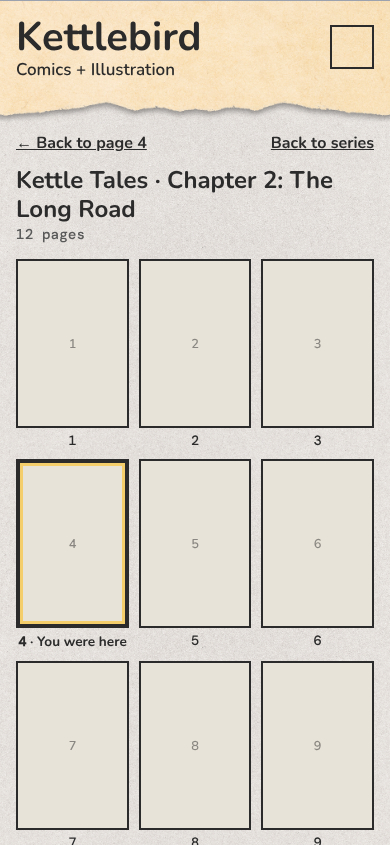
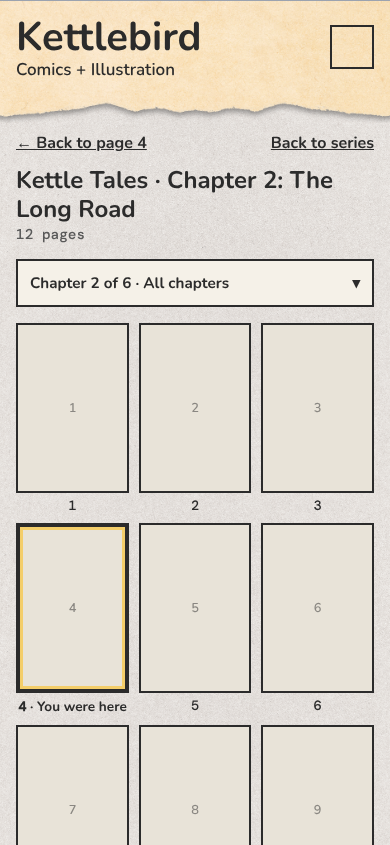
Reader design: move between chapters from the contact sheet
At the lead's request: a fold-out chapter list under the sheet's heading
(folded by default, so it costs one line on a phone) and links to the
chapters either side under the pictures. Each chapter also has a plain sheet
at <chapter>/pages that the chapter links open. Mock-up 9 added; the contact
sheet story is amended to match.

Claude-Session: https://claude.ai/code/session_01HWRLNSVAoX5Ni8d8XcwJh1

diff --git a/docs/design/mockups/comic-sheet-and-controls/mockups.html b/docs/design/mockups/comic-sheet-and-controls/mockups.html
@@ -77,6 +77,19 @@
   .thumb.here .num::after { content: ' · You were here'; font-family: 'Nunito', sans-serif; }
   .sheet-foot { margin-top: 1.25rem; display: flex; justify-content: space-between; font: 700 1rem 'Nunito', sans-serif; }
   .sheet-foot a { color: var(--ink); }
+
+  /* Chapter navigation on the sheet: previous and next chapter, and a fold-out list of chapters */
+  .chapnav { display: flex; justify-content: space-between; gap: 1rem; margin: 0 0 .75rem; font: 700 .95rem 'Nunito', sans-serif; }
+  .chapnav a { color: var(--ink); }
+  details.chapters { margin: 0 0 1rem; border: 2px solid var(--ink); background: var(--beige); }
+  details.chapters summary { cursor: pointer; padding: .5rem .75rem; font: 700 .95rem 'Nunito', sans-serif; list-style: none; display: flex; justify-content: space-between; min-height: 44px; align-items: center; }
+  details.chapters summary::after { content: '▾'; }
+  details.chapters[open] summary::after { content: '▴'; }
+  details.chapters ol { margin: 0; padding: 0 .75rem .5rem; list-style: none; border-top: 1px solid #2b2b2b33; }
+  details.chapters li { padding: .45rem 0; border-bottom: 1px solid #2b2b2b22; font: 600 .95rem 'Nunito', sans-serif; display: flex; justify-content: space-between; }
+  details.chapters li a { color: var(--ink); }
+  details.chapters li small { color: var(--ink-light); font: 500 .8rem 'DM Mono', monospace; white-space: nowrap; margin-left: .5rem; }
+  details.chapters li.here { font-weight: 800; }
 </style>
 </head>
 <body>
@@ -140,13 +153,15 @@
   </div>
 </div></div>
 
-<div class="wrap"><h6>5 · Contact sheet on a phone, opened from page 4: three a row, page 4 marked</h6>
+<div class="wrap"><h6>5 · Contact sheet on a phone, opened from page 4: three a row, page 4 marked; the chapter list folded</h6>
 <div class="screen phone" id="m5">
   <div class="sheet">
     <div class="bar"><a href="#">← Back to page 4</a><a href="#">Back to series</a></div>
     <h1>Kettle Tales · Chapter 2: The Long Road</h1>
     <p class="count">12 pages</p>
+    <details class="chapters"><summary>Chapter 2 of 6 · All chapters</summary><ol><li><a href="#">Chapter 1: The Kettle</a><small>3 pages</small></li><li class="here"><span>Chapter 2: The Long Road · you're here</span><small>12 pages</small></li><li><a href="#">Chapter 3: Over the Hill</a><small>9 pages</small></li><li><a href="#">Chapter 4: Homeward</a><small>6 pages</small></li><li><a href="#">Chapter 5: The Fair</a><small>14 pages</small></li><li><a href="#">Chapter 6: Rain</a><small>8 pages</small></li></ol></details>
     <ul class="thumbs" id="t5"></ul>
+    <div class="chapnav"><a href="#">← Chapter 1</a><a href="#">Chapter 3 →</a></div>
     <div class="sheet-foot"><a href="#">← Back to page 4</a><a href="#">Back to series</a></div>
   </div>
 </div></div>
@@ -157,7 +172,9 @@
     <div class="bar"><a href="#">← Back to page 4</a><a href="#">Back to series</a></div>
     <h1>Kettle Tales · Chapter 2: The Long Road</h1>
     <p class="count">12 pages</p>
+    <details class="chapters"><summary>Chapter 2 of 6 · All chapters</summary><ol><li><a href="#">Chapter 1: The Kettle</a><small>3 pages</small></li><li class="here"><span>Chapter 2: The Long Road · you're here</span><small>12 pages</small></li><li><a href="#">Chapter 3: Over the Hill</a><small>9 pages</small></li><li><a href="#">Chapter 4: Homeward</a><small>6 pages</small></li><li><a href="#">Chapter 5: The Fair</a><small>14 pages</small></li><li><a href="#">Chapter 6: Rain</a><small>8 pages</small></li></ol></details>
     <ul class="thumbs" id="t6"></ul>
+    <div class="chapnav"><a href="#">← Chapter 1</a><a href="#">Chapter 3 →</a></div>
     <div class="sheet-foot"><a href="#">← Back to page 4</a><a href="#">Back to series</a></div>
   </div>
 </div></div>
@@ -192,13 +209,25 @@
   </div>
 </div></div>
 
+
+<div class="wrap"><h6>9 · The chapter list unfolded on a phone; a chapter opens that chapter's sheet</h6>
+<div class="screen phone" id="m9">
+  <div class="sheet">
+    <div class="bar"><a href="#">← Back to page 4</a><a href="#">Back to series</a></div>
+    <h1>Kettle Tales · Chapter 2: The Long Road</h1>
+    <p class="count">12 pages</p>
+    <details class="chapters" open><summary>Chapter 2 of 6 · All chapters</summary><ol><li><a href="#">Chapter 1: The Kettle</a><small>3 pages</small></li><li class="here"><span>Chapter 2: The Long Road · you're here</span><small>12 pages</small></li><li><a href="#">Chapter 3: Over the Hill</a><small>9 pages</small></li><li><a href="#">Chapter 4: Homeward</a><small>6 pages</small></li><li><a href="#">Chapter 5: The Fair</a><small>14 pages</small></li><li><a href="#">Chapter 6: Rain</a><small>8 pages</small></li></ol></details>
+    <ul class="thumbs" id="t9"></ul>
+  </div>
+</div></div>
+
 <script>
   for (const s of document.querySelectorAll('.screen.wide, .screen.phone')) {
     if (!s.classList.contains('scrolled') && !s.id.match(/m[56]/)) continue;
   }
   // Phone and laptop sheets and readers that aren't scrolled get the site header.
-  for (const id of ['m5', 'm6']) document.getElementById(id).prepend(document.getElementById('hdr').content.cloneNode(true));
-  for (const id of ['t5', 't6']) {
+  for (const id of ['m5', 'm6', 'm9']) document.getElementById(id).prepend(document.getElementById('hdr').content.cloneNode(true));
+  for (const id of ['t5', 't6', 't9']) {
     const list = document.getElementById(id);
     for (let n = 1; n <= 12; n++) {
       const li = document.createElement('li');

diff --git a/docs/design/comic-sheet-and-controls.md b/docs/design/comic-sheet-and-controls.md
@@ -2,7 +2,7 @@
 id: design-comic-sheet-and-controls
 status: draft
 derived-from:
-  - story-comic-reader-contact-sheet: 7f9684183ed2
+  - story-comic-reader-contact-sheet: b81881d28d35
   - story-comic-reader-play-controls: 62a27f4a8594
   - design-comic-turn-pages#layout: a26d566f95d8
   - design-comic-turn-pages#states-and-errors: d45ab0902ca3
@@ -38,11 +38,13 @@ design-comic-turn-pages (see "Other documents"). -->
 1. In the reader bar, **All pages** opens the contact sheet for the chapter the fan is in (mock-ups 1 and 4).
 2. The sheet shows every page of that chapter as a small picture, in order, numbered, three a row on a phone and as many as fit on wider screens. The page the fan came from is marked "You were here", and the sheet opens scrolled to it (mock-ups 5 and 6).
 3. Choosing a picture opens that page in the reader. **← Back to page 4** (the page they came from), or the browser's back button, returns them where they were. The links are both above and under the pictures, so a long chapter never means scrolling back up.
+4. To move to another chapter (lead, 2026-11-02): under the heading, a folded line, "Chapter 2 of 6 · All chapters", unfolds the series' chapter list (mock-up 9); choosing one opens that chapter's sheet. Under the pictures, **← Chapter 1** and **Chapter 3 →** open the chapters either side. Folded, the list costs one line on a phone, so the pictures stay near the top.
 
 ## Addresses
 
 - Each reader page has its own sheet, at its address plus `/pages`: from `/comics/kettle-tales/2/4`, the sheet is `/comics/kettle-tales/2/4/pages`. Because the address says which page the fan came from, the sheet can mark it, scroll to it and link back to it without any script, and each sheet is a plain page the site builds ahead of time, like the reader's.
 - **All pages** links to the sheet with `#page-4`, so it opens scrolled to the marked picture.
+- Each chapter also has a plain sheet, at its address plus `/pages`: `/comics/kettle-tales/3/pages`. The chapter list and the chapter links open these. A chapter's own sheet marks no picture, opens at the top, and its bar has **Back to series** alone, since the fan didn't come from one of its pages.
 - A picture links to that page's reader address (`/comics/kettle-tales/2/7`). The controls link to the first and newest pages' reader addresses.
 
 ## Mock-ups
@@ -59,6 +61,7 @@ Built to match the reader as it is: its fonts, colours, borders and reader bar. 
 | 6 | Contact sheet on a laptop | `mockups/comic-sheet-and-controls/6-sheet-laptop.png` |
 | 7 | A 320 px phone with text enlarged to 200%: the row wraps to two by two | `mockups/comic-sheet-and-controls/7-text-200-narrow.png` |
 | 8 | A complete series: **Last** in place of **Newest** | `mockups/comic-sheet-and-controls/8-complete-series.png` |
+| 9 | The chapter list unfolded on a phone | `mockups/comic-sheet-and-controls/9-chapters-unfolded.png` |
 
 ## Layout
 
@@ -84,6 +87,8 @@ Built to match the reader as it is: its fonts, colours, borders and reader bar. 
 - The heading: the series and the chapter as the reader names it (so a prologue numbered 0 shows its title), "Kettle Tales · Chapter 2: The Long Road", then the number of pages, "12 pages". A series the reader shows without chapter names has the series' title alone.
 - The pictures: three a row on a phone (about 110 px wide on a 390 px phone), as many as fit on wider screens (each at least 150 px). Each picture keeps the page's shape, with a thin border, and its page number under it.
 - The marked picture has a thick border with a yellow inner line, and "4 · You were here" under it.
+- **The chapter list:** under the heading and page count, a bordered fold-out, folded by default, whose line reads "Chapter 2 of 6 · All chapters ▾" (at least 44 px tall). Unfolded, it lists every chapter that has pages, in order, each named as on the series page ("Chapter 3: Over the Hill") with its page count; the current chapter is marked "you're here" and isn't a link. It's the browser's own fold-out (`<details>`), so it works without scripts.
+- **The chapters either side:** under the pictures, above the back links, **← Chapter 1** on the left and **Chapter 3 →** on the right, named by number (a prologue by its title). There's none before the first chapter or after the last, skipping chapters with no pages.
 - The bar's two links repeat under the pictures at every width, so a long chapter doesn't mean scrolling back up.
 - Pictures are small images made for the sheet (about 300 px wide, or less on a phone), loaded as they come into view, never the full pages. Each picture's box has its size before its image loads, so the page doesn't jump while scrolling, and the marked picture lands below the top of the screen, not under its edge.
 - Search engines are asked not to list the sheets, since a chapter has one per page.
@@ -93,7 +98,8 @@ Built to match the reader as it is: its fonts, colours, borders and reader bar. 
 - **First page of the series:** **First** and **Previous** can't be used.
 - **Newest page:** **Next** and **Newest** can't be used. Under the controls, the end note from design-comic-turn-pages: **You're all caught up!**, the line for the series' status, and **Back to series**.
 - **A series with one page:** no controls at all, since none could be used; just the end note.
-- **A chapter with one page:** no **All pages** in the bar, and no sheet for that page.
+- **A chapter with one page:** no **All pages** in the bar, and no sheet for that page. It still appears in the chapter list, and its chapter sheet shows its one picture, so chapter navigation never skips it.
+- **A series with only one chapter that has pages, or without visible chapters:** no chapter list and no chapter links.
 - **First page of a later chapter:** **Previous** goes to the last page of the chapter before, as now; **First** still goes to the series' first page.
 - **A picture still loading:** its box shows the paper colour and its page number until the picture appears.
 - **Keys:** the left and right arrow keys turn pages as now. Home and End keep their usual scrolling (lead, 2026-11-02): **First** and **Newest** are reached with Tab like the other controls.
@@ -106,6 +112,7 @@ Built to match the reader as it is: its fonts, colours, borders and reader bar. 
 - **All pages** is a link named "All pages in this chapter".
 - On the sheet: a list of links, each named by its page number and the page's alt text, "Page 4: Rain on the road", or "Page 4" without alt text. The marked one's name adds "You were here". (It isn't marked as the current page for screen readers: the sheet is the current page.)
 - The sheet's heading is a level-one heading, so it's announced on arrival.
+- The chapter list's line is the fold-out's own button, announced as collapsed or expanded; the list inside is a navigation region named "Chapters". The chapter links are named "Previous chapter: Chapter 1" and "Next chapter: Chapter 3".
 - Focus is visible on every control and picture (the site's focus ring), and all targets are at least 44 px; the controls are 56 px tall.
 
 ## Other documents
@@ -116,7 +123,8 @@ Built to match the reader as it is: its fonts, colours, borders and reader bar. 
 
 ## For the spec to check
 
-- Every reader page has its sheet at `<page address>/pages`, built ahead of time, with its tab title and a request not to be listed by search engines; a chapter with one page has none.
+- Every reader page has its sheet at `<page address>/pages`, built ahead of time, with its tab title and a request not to be listed by search engines; a chapter with one page has none. Every chapter with pages has its own sheet at `<chapter address>/pages`, marking nothing.
+- The chapter list (folded by default, every chapter with pages, the current one marked and not a link) and the chapter links either side (skipping empty chapters; none on a single-chapter series or one without visible chapters).
 - The controls' order, names, captions (**Last** on a complete series), icons (SVG, hidden from screen readers), the full-name label on hover and focus, the four being the same width and colour, sizes, the two-by-two wrap, and the unusable states (links without an address, `role="link"`, `aria-disabled`, same place); no controls on a one-page series.
 - On a 360 × 640 phone, the controls are on the first screen with the page.
 - **First** and **Newest** go to the series' first and newest pages, skipping empty chapters. Home and End are not used.
@@ -129,6 +137,7 @@ The lead decided these at review (2026-11-02); the first two came from the walkt
 1. **Home and End:** not used. They keep their usual scrolling, because a keyboard user pressing End to reach the controls would otherwise jump to the newest page and could spoil the story. The play-controls story is amended to match.
 2. **A complete series:** the double-right control reads **Last** ("Last page of the series"), not **Newest**, which would promise new pages.
 3. **Next looks like the others:** the same width and colour as the other three, not wider and yellow. The play-controls story is amended to match.
+4. **Moving between chapters:** a fold-out chapter list and links to the chapters either side, on the sheet, rather than a chapter list always open (too long on a phone) or a menu in the reader bar. The contact sheet story is amended to match.
 
 ## Persona walkthrough
 

diff --git a/docs/product/stories/comic-reader/contact-sheet.md b/docs/product/stories/comic-reader/contact-sheet.md
@@ -25,3 +25,4 @@ As a fan, I want to see all of a chapter's pages as a grid of small pictures, li
 - Every picture is a link a keyboard and a screen reader can reach, named by its page number and the page's alt text where there is one ("Page 4: Rain on the road").
 - The sheet works without scripts, like the rest of the reader.
 - A chapter with only one page has no contact sheet control.
+- From the sheet, the fan can open the previous or next chapter's sheet, and unfold a list of the series' chapters to open any of them; the list is folded away until they ask for it, so it doesn't push the pictures down on a phone (lead, 2026-11-02).
